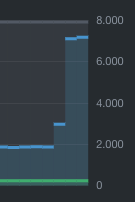
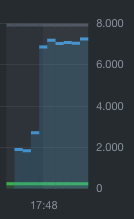
Updated Swarm info

diff --git a/README.md b/README.md
@@ -22,6 +22,6 @@ Load average: `7.28, 14.88, 30.85`
 
 Deployed with `docker-compose-deploy-v3.yml`
 
-Load average: `88.65 53.85 35.30`
+Load average: `60.16, 52.17, 29.01`
 
 ![swarm_docker_hc](./img/swarm_docker_hc.png)
